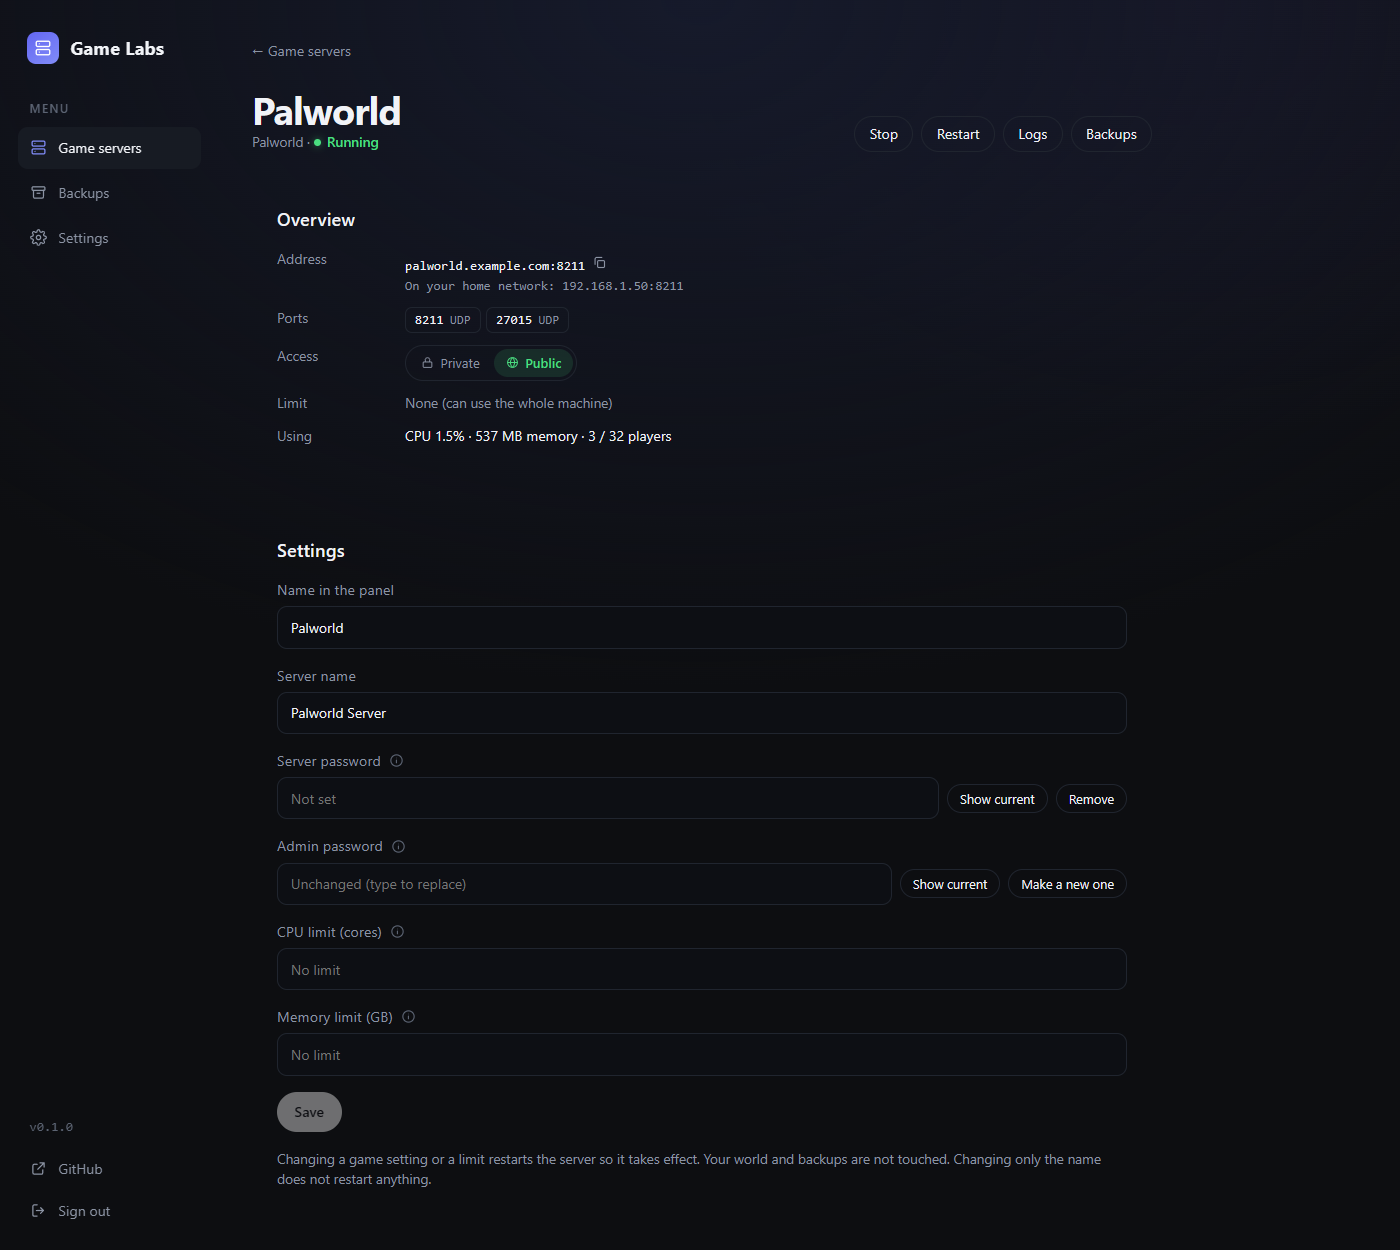
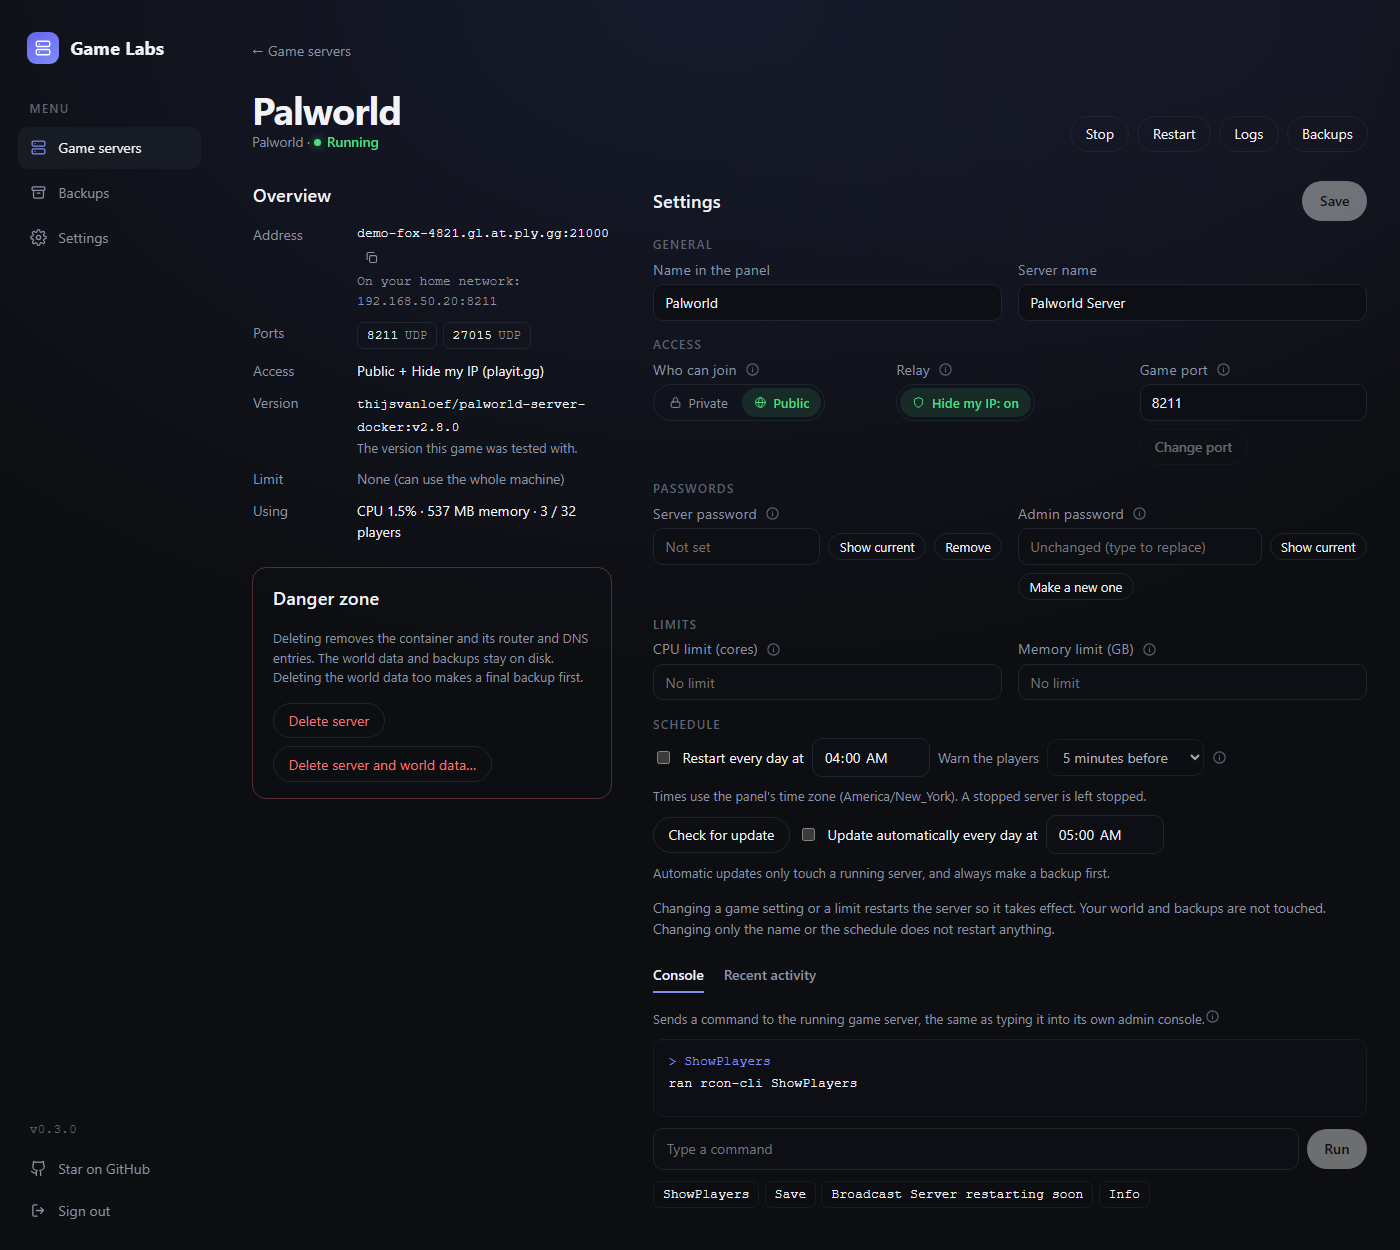
Release 0.3.0: README what's new and refreshed screenshots
Bump the version to 0.3.0, add a "What's new in 0.3.0" section covering
the honest IP wording, Hide my IP through playit.gg, hybrid access,
store artwork in the server list and the restyled Connect dialog.

The screenshot script now fakes playit.gg and fetches store artwork, so
the images show the Access badges, both addresses and the Connect dialog.
They use example.com and 192.168.50.x sample data.

diff --git a/docs/capture-screenshots.ts b/docs/capture-screenshots.ts
@@ -1,6 +1,8 @@
 /**
- * Regenerates the screenshots in docs/images from the real web app, running against a fake Docker, router and DNS
- * with a few demo servers (no real containers, and the public IP is a documentation address, 203.0.113.7).
+ * Regenerates the screenshots in docs/images from the real web app, running against a fake Docker, router, DNS and
+ * playit.gg with a few demo servers (no real containers, the public IP is a documentation address, 203.0.113.7, and the
+ * domain is example.com). The game pictures on the cards are the real store pictures the templates link to, fetched once
+ * from the internet like the panel does; without a connection the cards keep their gradient.
  *
  *   npm run build:web && npx tsx docs/capture-screenshots.ts
  *
@@ -15,6 +17,9 @@ import { chromium, type Page } from "playwright";
 import { buildApp } from "../src/server/app.js";
 import { type HostStats, type HostSnapshot } from "../src/server/host-stats.js";
 import { StatsHistory, type PeakStore } from "../src/server/history.js";
+import { PlayitClient, type FetchFn } from "../src/server/relay/playit.js";
+import { RelayManager } from "../src/server/relay/manager.js";
+import { ArtworkCache } from "../src/server/templates/artwork.js";
 import { loadConfig } from "../src/server/config.js";
 import { openDb } from "../src/server/db/index.js";
 import { DnsSettings } from "../src/server/dns/settings.js";
@@ -26,13 +31,39 @@ const out = path.resolve("docs/images");
 mkdirSync(out, { recursive: true });
 
 const dir = mkdtempSync(path.join(os.tmpdir(), "gl-shots-"));
-const config = loadConfig({ SESSION_SECRET: "x".repeat(40), DATA_DIR: dir, GAMESERVERS_DIR: path.join(dir, "games"), HOST_LAN_IP: "192.168.1.50", PUBLIC_HOST: "play.example.com" });
+const config = loadConfig({ SESSION_SECRET: "x".repeat(40), DATA_DIR: dir, GAMESERVERS_DIR: path.join(dir, "games").replace(/^[A-Za-z]:/, "").replaceAll("\\", "/"), HOST_LAN_IP: "192.168.50.20", PUBLIC_HOST: "play.example.com" });
 const { db } = openDb(":memory:");
 const templates = loadTemplates(path.resolve("templates"));
 const docker = new FakeDocker();
+// Palworld reports its player count through a command run inside the container; the console shows what other commands print.
+docker.execReply = (cmd) => (cmd.join(" ").includes("/v1/api/metrics") ? JSON.stringify({ currentplayernum: 3, maxplayernum: 32 }) : `ran ${cmd.join(" ")}`);
+/** A pretend playit.gg account with one agent: it accepts the demo key and hands out an address for every tunnel the panel asks for. */
+const PLAYIT_KEY = "demo-agent-secret-key-0123456789";
+const tunnels: { id: string; name: string; port_type: string; local_port: number; local_ip: string }[] = [];
+const playit: FetchFn = async (url, init) => {
+  const p = url.replace("https://api.playit.gg", "");
+  const body = JSON.parse(init.body) as Record<string, unknown>;
+  const reply = (json: unknown) => ({ ok: true, status: 200, json: async () => json });
+  if (init.headers.authorization !== `Agent-Key ${PLAYIT_KEY}`) return reply({ status: "error", data: { type: "auth", message: "InvalidAgentKey" } });
+  if (p === "/agents/rundata") {
+    const data = { agent_id: "agent-demo", account_status: "verified", tunnels: tunnels.map((t, i) => ({ id: t.id, name: t.name, proto: t.port_type, port: { from: 21000 + i * 111, to: 21000 + i * 111 }, assigned_domain: "demo-fox-4821.gl.at.ply.gg", local_ip: t.local_ip, local_port: t.local_port })) };
+    return reply({ status: "success", data });
+  }
+  if (p === "/tunnels/create") {
+    const origin = (body.origin as { data: { local_ip: string; local_port: number } }).data;
+    tunnels.push({ id: `tun-${tunnels.length + 1}`, name: body.name as string, port_type: body.port_type as string, local_port: origin.local_port, local_ip: origin.local_ip });
+    return reply({ status: "success", data: { id: `tun-${tunnels.length}` } });
+  }
+  return reply({ status: "fail", data: "Unknown" });
+};
+
 const players: Record<number, number> = { 27015: 3, 25565: 5 };
+const relay = new RelayManager(db, config, docker, (key) => new PlayitClient(key, playit));
+const artwork = new ArtworkCache(dir, { log: (m) => console.log(m) });
+artwork.load(templates);
+await artwork.refresh(templates);
 const service = new ServerService({
-  config, db, templates, docker, dns: new FakeDns(), connectivity: new FakeConnectivity(), hostPorts: () => new Set(), background: false, stableMs: 0,
+  config, db, templates, docker, dns: new FakeDns(), connectivity: new FakeConnectivity(), relay, hostPorts: () => new Set(), background: false, stableMs: 0,
   portProbe: { name: "check-host.net", check: async () => ({ state: "open", detail: "Connected from 3 of 3 locations" }) },
   queryPlayers: async (_h, port) => ({ online: players[port] ?? 0, max: port === 25565 ? 20 : 32 }),
 });
@@ -52,7 +83,7 @@ for (let i = 0; i < 45; i++) {
     { demo: { cpuPercent: null, memBytes: 0, players: { online, max: 40 } } },
   );
 }
-const app = buildApp({ config, db, templates, service, docker, dnsSettings: new DnsSettings(db, config), hostStats, history, webRoot: path.resolve("dist/web") });
+const app = buildApp({ config, db, templates, service, docker, dnsSettings: new DnsSettings(db, config), relay, artwork, hostStats, history, webRoot: path.resolve("dist/web") });
 await app.listen({ port: 0, host: "127.0.0.1" });
 const url = `http://127.0.0.1:${(app.server.address() as AddressInfo).port}`;
 
@@ -105,6 +136,16 @@ await row("Valheim").getByText(/Running|Starting/).waitFor();
 
 // Palworld and Minecraft go public; Dragonwilds stays untested so the Access column shows both states. Valheim is stopped.
 for (const n of ["Palworld", "RuneScape", "Minecraft"]) await choose(n, "Make public");
+
+// Palworld also hides the home IP through playit.gg, so it is public and relayed at once and its row shows both addresses.
+await relay.save({ secret: PLAYIT_KEY, mode: "existing" });
+await choose("Palworld", "Hide my IP (playit.gg)");
+const connect = page.locator(".dialog.connect");
+await connect.waitFor();
+await page.getByText("For strangers (relay)").waitFor();
+await page.waitForTimeout(500);
+await connect.screenshot({ path: path.join(out, "connect-dialog.png") });
+await connect.getByRole("button", { name: "Close" }).click();
 await row("Valheim").getByRole("button", { name: /^Stop/ }).click();
 await row("Valheim").getByText("Stopped").waitFor();
 await row("Palworld").getByRole("button", { name: /^Test / }).click();

diff --git a/test/relay.test.ts b/test/relay.test.ts
@@ -227,7 +227,7 @@ describe("RelayManager", () => {
       fake.refuseCreate = true;
       await mgr.enable(server);
       expect(mgr.info(server).localNote).toMatch(/own Docker container/);
-      await mgr.save({ mode: "existing", localHost: "192.168.68.61" });
+      await mgr.save({ mode: "existing", localHost: "192.168.50.61" });
       expect(mgr.info(server).localNote).toBeNull();
     });
 

diff --git a/README.md b/README.md
@@ -2,9 +2,19 @@
 
 **Run game servers at home without becoming a sysadmin.** Game Labs is an open-source control panel for your own hardware. Pick a game, click deploy, and the panel starts the container, opens the ports on your router, keeps a friendly name pointed at your home IP, and backs up your world. Friends join from the internet; you never touch Docker commands, your router's admin page or a DNS dashboard after first-time setup. Players connect straight to your home internet connection, so they can see your home IP (see [Your home IP is visible to players](#your-home-ip-is-visible-to-players)).
 
-![The Game Labs dashboard: host stats with small charts, a table of game servers with status, address, ports and an Access column, and the Network health checklist on the right](docs/images/dashboard.png)
+![The Game Labs dashboard: host stats with small charts, a table of game servers with artwork tiles, status, address, ports and an Access column with Public and Hidden IP badges, a template picker with store artwork below, and the Network health checklist on the right](docs/images/dashboard.png)
 
-> **Early release (v0.2.1).** Palworld and RuneScape: Dragonwilds are running on a real homelab, with friends joining over the internet. The other games are built and tested against fakes and throwaway containers but not played on yet. See [Supported games](#supported-games) and [docs/verification.md](docs/verification.md) for exactly what has and has not been tried.
+> **Early release (v0.3.0).** Palworld and RuneScape: Dragonwilds are running on a real homelab, with friends joining over the internet. The other games are built and tested against fakes and throwaway containers but not played on yet. See [Supported games](#supported-games) and [docs/verification.md](docs/verification.md) for exactly what has and has not been tried.
+
+## What's new in 0.3.0
+
+- **An honest note about your home IP.** Players who join a public server connect straight to your home internet connection, so they can see your home IP. The README and the panel now say so plainly (see [Your home IP is visible to players](#your-home-ip-is-visible-to-players)).
+- **Hide my IP, through playit.gg.** Turn it on for a server and strangers get a playit.gg address instead of yours. It uses the playit.gg agent you already run, with tunnels named `gl-<server>-<port>`. The panel finds them by that name and shows what is left to do if one is missing (see [Hide my IP](#hide-my-ip-optional)).
+- **Public and Hide my IP together.** Hide my IP is its own switch, so a server can be both. The server list then shows two addresses: the playit.gg one to give strangers, and your own name for friends. The Access column marks each server **Public**, **Private** or **Hidden IP**.
+- **Store artwork in the server list.** Each server's row, and its entry on the Backups page, now shows the game's artwork as a small tile, the same picture as on its template card.
+- **A Connect dialog that matches Settings.** "How to connect…" lists every address a player might need (relay, public and home network), with a copy button for each, and walks you through any tunnel that is still missing.
+
+![The Connect dialog for a server that is both Public and behind Hide my IP, showing the relay, public and home network addresses](docs/images/connect-dialog.png)
 
 ## What's new in 0.2.1
 
@@ -40,7 +50,7 @@ These are generated from the real app against a fake Docker and router with demo
 
 ### The server list
 
-Each row has a Stop/Start button, logs and a **...** menu (restart, backups, passwords, settings, make public or private, delete). The charts show the last 15 minutes the panel measured, and the player peak is today's highest count. The Network health panel sits beside the table, and moves under it on narrower windows; on a phone each server is a card.
+Each row shows the game's artwork, its address (two of them when a public server also uses Hide my IP: one for strangers, one for friends) and an Access badge, with a Stop/Start button, logs and a **...** menu (restart, backups, how to connect, passwords, settings, make public or private, hide my IP, delete). The charts show the last 15 minutes the panel measured, and the player peak is today's highest count. The Network health panel sits beside the table, and moves under it on narrower windows; on a phone each server is a card.
 
 ![The "..." menu open on a server row](docs/images/row-menu.png)
 ![The dashboard in a 1440 pixel wide window](docs/images/dashboard-1440.png)
@@ -55,7 +65,7 @@ Rename it, edit its game settings (changing one recreates the container; the wor
 
 Every backup in one place, including those of servers you have deleted. Pick one and press **Set up again** to bring a deleted world back.
 
-![The Backups page listing each server's backups with Restore and Delete buttons, and a deleted server with a Set up again button](docs/images/backups.png)
+![The Backups page listing each server's backups under its artwork tile with Restore and Delete buttons, and a deleted server with a Set up again button](docs/images/backups.png)
 
 ### Network health
 
